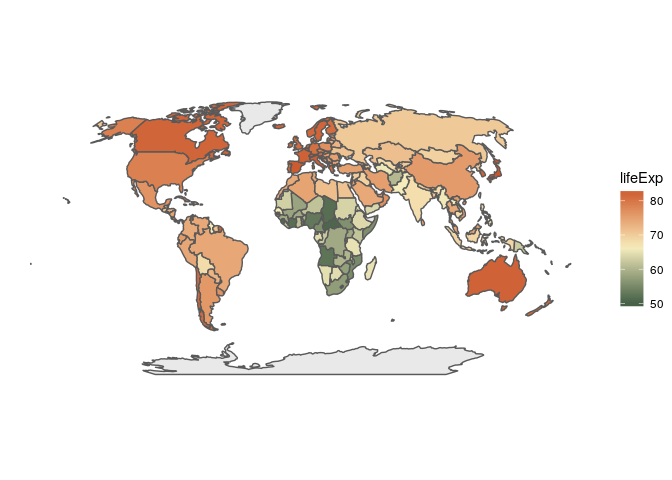
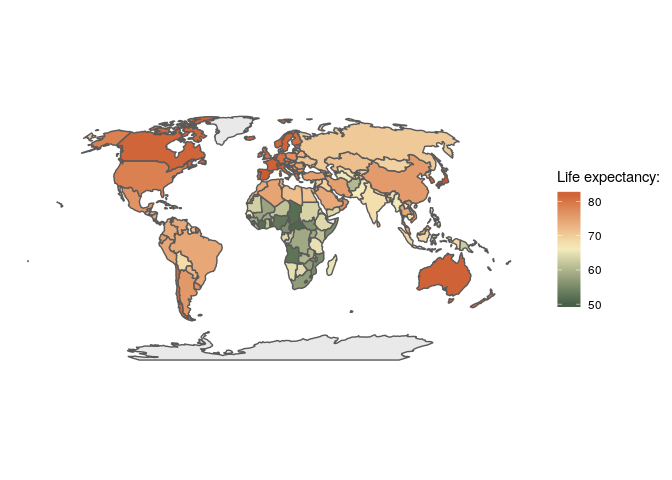
nicer readme plot

Changed region(s): [[0.125, 0.1875, 1.0, 0.7812]]

diff --git a/README.md b/README.md
@@ -53,7 +53,8 @@ library(ggplot2)
 ggplot(world, aes(fill = lifeExp)) +
         geom_sf(data = world) +
         coord_sf(crs = "+proj=robin") +
-        scale_fill_carto_c(type = "diverging", palette = "Fall") +
+        scale_fill_carto_c(name = "Life expectancy: ",
+                           type = "diverging", palette = "Fall") +
         theme_void()
 ```
 
